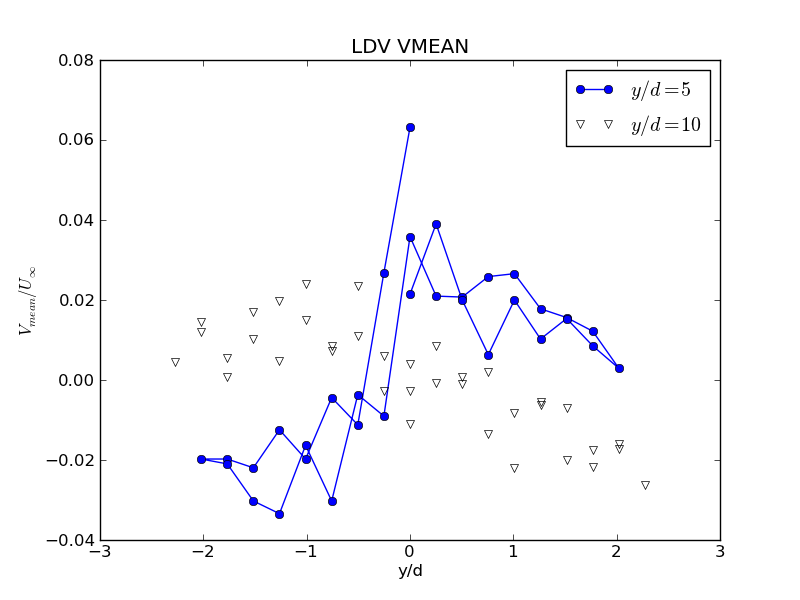
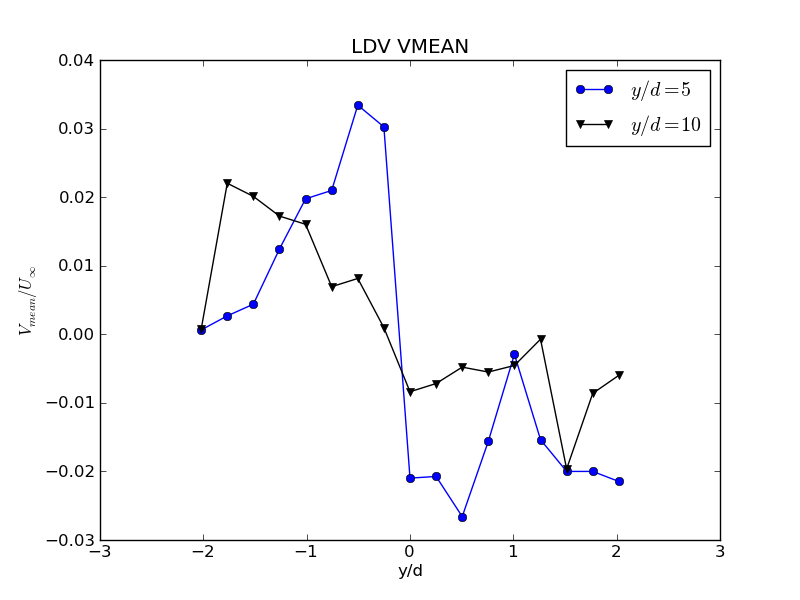
udpating some images and the report

diff --git a/exp/ldv/report.tex b/exp/ldv/report.tex
@@ -280,7 +280,9 @@ near our conditions (Re $\approx 2000$ versus 3900, versus many papers
 at substantially larger Re) and at values that are nominally identical
 to our location, e.g. $x/d < 10$. A deficiency of this paper for our
 purposes is that the measurements were conducted with a hot wire, and
-not the present LDV system. 
+not the present LDV system. Notice also that this paper was conducted in the air, 
+versus the water for our experiment. Of course, owing to similitude, this is not
+important, aside from the difference in Re. It is worth noting to the reader, at least. 
 
 We measured the diameter of the cylinder with a set of calipers. 
 for a $d=0.374$ inches we desire to measure 5d downstream, or $1.87$
@@ -351,7 +353,8 @@ velocity.
  \begin{center}
   \includegraphics[width = 12 cm]{figs/defect10}
   \caption{A comparison between the five and ten cylinder diameters
-  streamwise velocity profiles.}
+  streamwise velocity profiles. Notice that both series of the ten diameter runs are plotted, to 
+indicate the level of repeatibility. }
   \label{back}
  \end{center}
 \end{figure}
@@ -389,6 +392,52 @@ centerline, which we appear to have not captured at all. At this point I
 am concerned that we did not measure the $y/d$ distance correctly, but
 we really were very careful and did have an independent check (Nick did
 it and it was checked by Owen). 
+
+\begin{figure}[!htb]
+ \begin{center}
+  \includegraphics[width = 12 cm]{figs/vrms}
+  \caption{The five and ten diameter distances $V_{rms}$ profiles. Notice that both sets of data are plotted, to give an impression of the repeatability. }
+  \label{vrms}
+ \end{center}
+\end{figure}
+
+In figure \ref{vrms} we plot the five and ten diameter $V_{rms}$ values. 
+This figure actually is in very good agreement with the experimental paper! 
+The peak is clustered around 0, and trails off afterward. The 5d 
+peak is significantly higher than the 10d value, and the peaks largely 
+correspond to the values we would expect: in the paper they observed a 
+peak of 0.075 for 10d and 18.5 for 10d. Our 10d values closely match, with our
+peak at roughly 0.8, but our 10d has a slightly larget discrepancy, rising above 0.2. 
+Nevertheless, the shape and structure of these data are largely consistent with the 
+literature search we performed. However, as plotted in figure \ref{vrms}, 
+there is some non-trivial scatter between each series of experiments. While the experiments
+are broadly repeatible, the scatter in the five diameter series was certainly appreciable, and is
+larger than one would expect given the turbulence intensities. 
+
+%
+% time to add mean V vel
+%
+
+\begin{figure}[!htb]
+ \begin{center}
+  \includegraphics[width = 12 cm]{figs/vmean}
+  \caption{The five and ten diameter distances $\bar V$ profiles. }
+  \label{vmean}
+ \end{center}
+\end{figure}
+
+In figure \ref{vmean} we plot the five and ten diameter $\bar V$ values. This is clearly a disaster. 
+Essentially the only two points in favor of this plot are that the sign of the mean velocity is in the 
+correct direction, and that the magnitude is not patently absurd. We expect a positive value for 
+negative $y/d$ values, followed by an anti-symmetric reflection across the centerline. The peak values in the paper
+are at a fraction of 0.1, but beyond that is is hard to tell and the raw data is not available. I do not 
+believe our values are off by a factor of 2, but that is as far as I am prepared to go on this plot. Furthermore, the data
+obviously is noisy, with large fluctuations between points that are not expected to be physical. My guess here is that
+becaues the low values of the velocity here, out data is contaminated by noise. It is also possible this occurs in the 
+paper, but the scale is so small that they have cleverly hidden the fluctuations we are seeing in our results. Either way, 
+these results are bad enough I consider them unreliable. Perhaps the only other arguement in favor of this plot is tha
+the $y/d$ value at 5 diameters is higher than the data from 10, as in the paper we have for reference. 
+
 
 The uncertainty was bounded in estimation using either the repeated
 measurements at the center ($y=0$) where the turbulence was at a peak,

diff --git a/exp/ldv/code/vmean.py b/exp/ldv/code/vmean.py
@@ -6,6 +6,9 @@
 #
 import sys
 import numpy as np
+import matplotlib
+matplotlib.use('Agg') # Must be before importing matplotlib.pyplot or pylab!
+import matplotlib.pyplot as plt
 
 #
 # open and read file
@@ -40,10 +43,9 @@ print len(yd)
 #
 # plot
 #
-import matplotlib.pyplot as plt
 plt.subplot(1, 1, 1)
 plt.plot(yd,defect1,color='blue',marker='o',label=r'$y/d=5$')
-plt.plot(yd2,defect2,color='none', marker='v',label=r'$y/d=10$')
+plt.plot(yd2,defect2,color='black', marker='v',label=r'$y/d=10$')
 plt.title('LDV VMEAN')
 plt.ylabel(r'$V_{mean}/U_{\infty}$')
 plt.xlabel('y/d')
